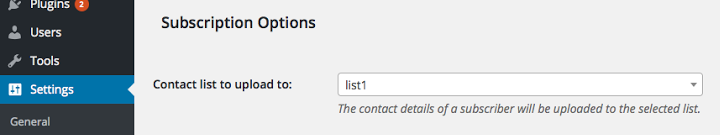
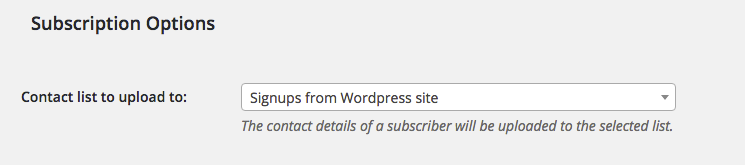
updated screenshots

Changed region(s): [[0.0, 0.0, 0.9778, 1.0], [0.9472, 0.5926, 0.9778, 0.6519]]

diff --git a/source/Integrate/Tutorials/WordPress/subscription_widget.md b/source/Integrate/Tutorials/WordPress/subscription_widget.md
@@ -72,9 +72,13 @@ To create a dedicated API Key for your plugin, log into your SendGrid account, n
 Choosing Your Marketing Campaigns Recipient List
 {% endanchor %}
 
-After you set up a valid API key you must choose a specific list where your new contacts will be stored. If you don't have a list set up for your signups from the Subscription Widget, open your SendGrid Dashboard, click on **Marketing Campaigns** in the sidebar, then select **Contacts** and [create a new list]({{root_url}}/User_Guide/Marketing_Campaigns/lists.html).
+After you set up a valid API key you must choose a specific list where your new contacts will be stored.
 
 ![]({{root_url}}/images/wp_subscription_widget_2.png)
+
+If you don't have a list set up for your signups from the Subscription Widget, open your SendGrid Dashboard, click on **Marketing Campaigns** in the sidebar, then select **Contacts** and [create a new list]({{root_url}}/User_Guide/Marketing_Campaigns/lists.html).
+
+![]({{root_url}}/images/wp_subscription_widget_2_1.png)
 
 {% anchor h3 %}
 Configuring Your Subscription Widget Form
